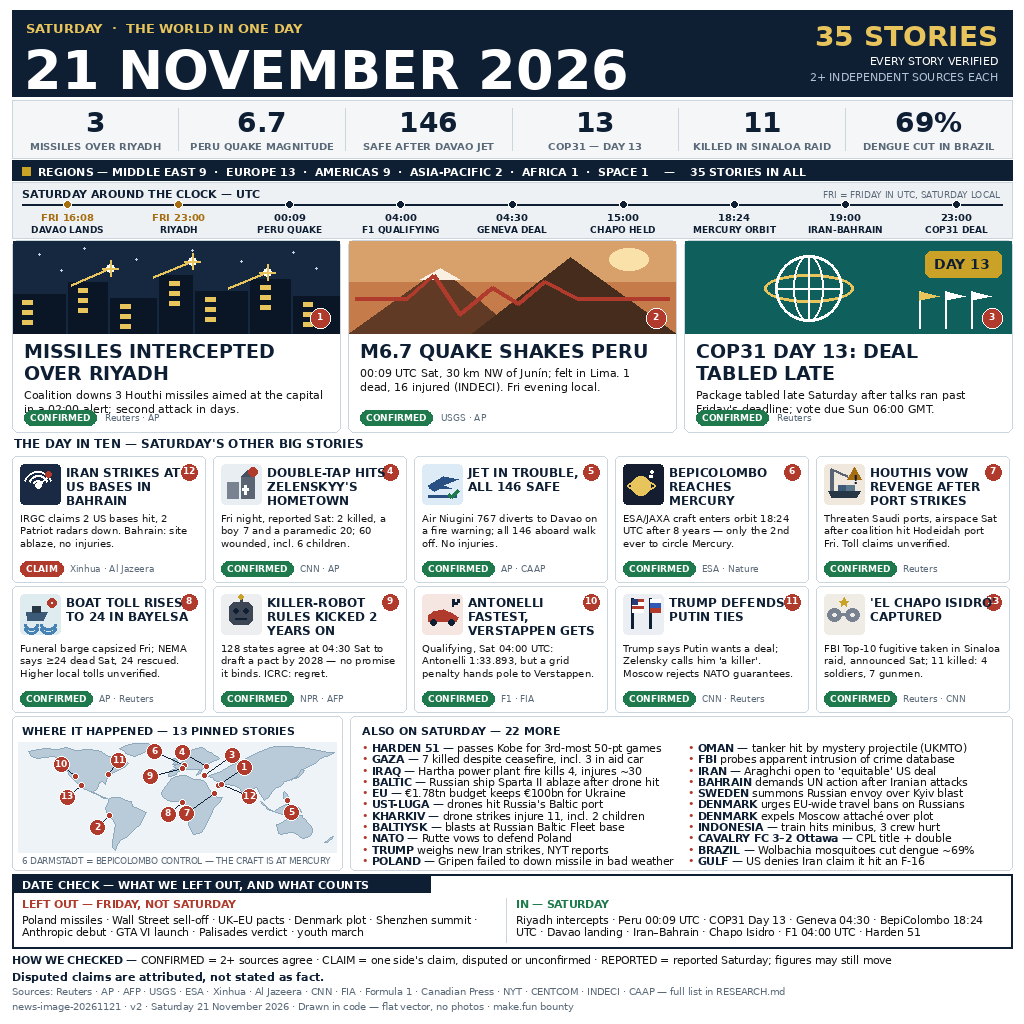
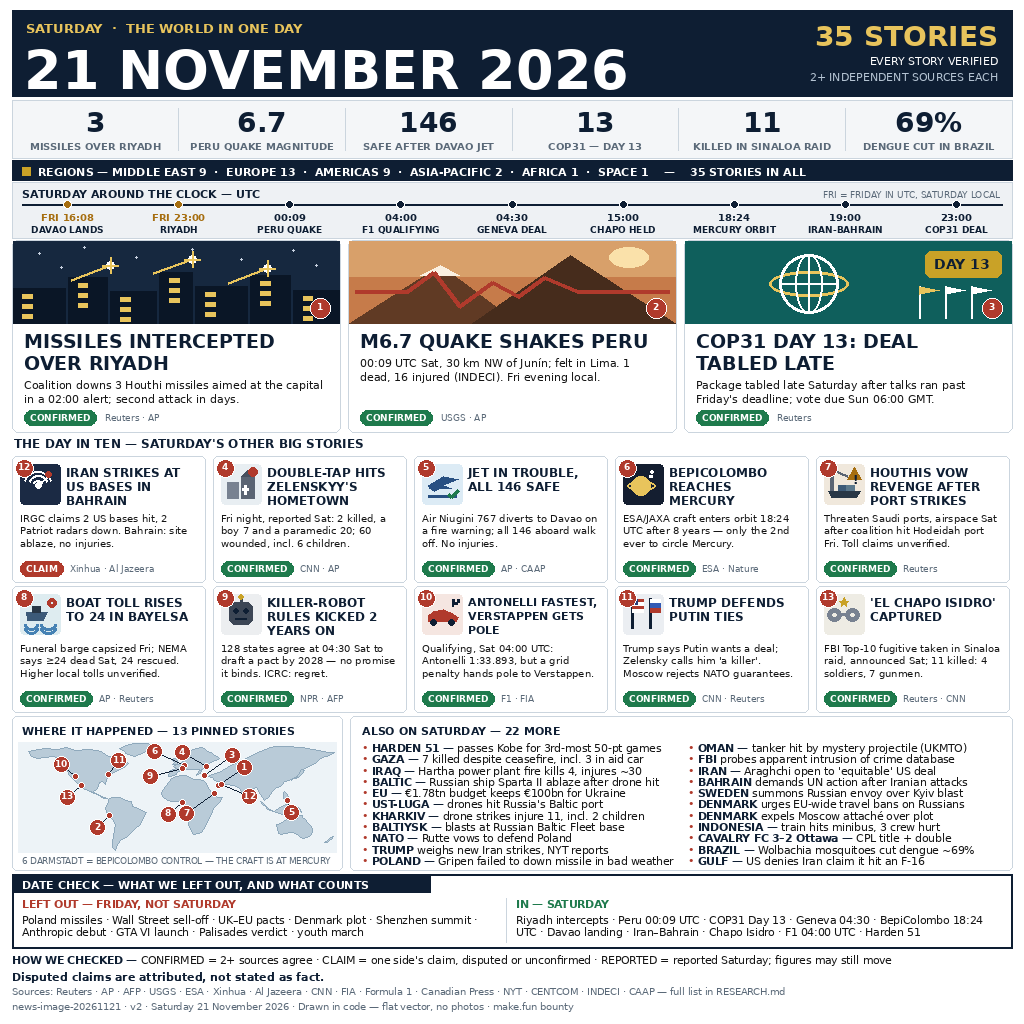
news-image-20261121 v2 fix: move mini number chips off headline text; restore F1 POLE; clear hero badge/body overlap

diff --git a/main.py b/main.py
@@ -691,10 +691,12 @@ def draw_heroes(d):
         x0 = 12 + i * (cw + 8)
         y0, ch = 240, 192
         rr(d, [x0, y0, x0 + cw, y0 + ch], 6, fill=WHITE, outline=LINE, width=1)
-        SCENES[h["scene"]](d, x0 + 1, y0 + 1, cw - 2, 92)
-        num_chip(d, x0 + cw - 20, y0 + 78, h["pin"], r=10)
+        # scene shortened 92 -> 82 so the 2-line body clears the badge row:
+        # at 92 the body ink ran 5px under the badge on heroes 1 and 3
+        SCENES[h["scene"]](d, x0 + 1, y0 + 1, cw - 2, 82)
+        num_chip(d, x0 + cw - 20, y0 + 68, h["pin"], r=10)
         tx = x0 + 12
-        ty = y0 + 100
+        ty = y0 + 90
         head_lines = wrap(d, h["head"], FB(19), cw - 24)
         draw_lines(d, tx, ty, head_lines[:2], FB(19), INK, 22)
         by = ty + len(head_lines[:2]) * 22 + 4
@@ -715,13 +717,20 @@ def draw_minis(d):
         y0 = 456 + row * (chh + 4)
         rr(d, [x0, y0, x0 + cw, y0 + chh], 5, fill=WHITE, outline=LINE,
            width=1)
-        # icon tile top-left, map-number chip top-right
+        # icon tile top-left; map-number chip on the tile's top-left corner
+        # (the old top-right spot overlapped headline line 1)
         rr(d, [x0 + 8, y0 + 8, x0 + 48, y0 + 48], 4, fill=m["tint"])
         ICONS[m["icon"]](d, x0 + 10, y0 + 10, 36, c1=m["ic1"], c2=m["ic2"])
-        num_chip(d, x0 + cw - 16, y0 + 16, m["pin"], r=9)
+        num_chip(d, x0 + 12, y0 + 12, m["pin"], r=9)
         hx = x0 + 54
-        head_lines = wrap(d, m["head"], FB(12), cw - 54 - 10)
-        draw_lines(d, hx, y0 + 9, head_lines[:3], FB(12), INK, 14)
+        # headline font drops a point only when 3 lines cannot hold the
+        # words (F1: "POLE" was the 4th line); wording is never changed
+        hf = FB(12)
+        head_lines = wrap(d, m["head"], hf, cw - 54 - 10)
+        if len(head_lines) > 3:
+            hf = FB(11)
+            head_lines = wrap(d, m["head"], hf, cw - 54 - 10)
+        draw_lines(d, hx, y0 + 9, head_lines[:3], hf, INK, 14)
         body_lines = wrap(d, m["body"], FR(10), cw - 16)
         draw_lines(d, x0 + 8, y0 + 56, body_lines[:3], FR(10), BLACK, 12.5)
         fy = y0 + chh - 21
